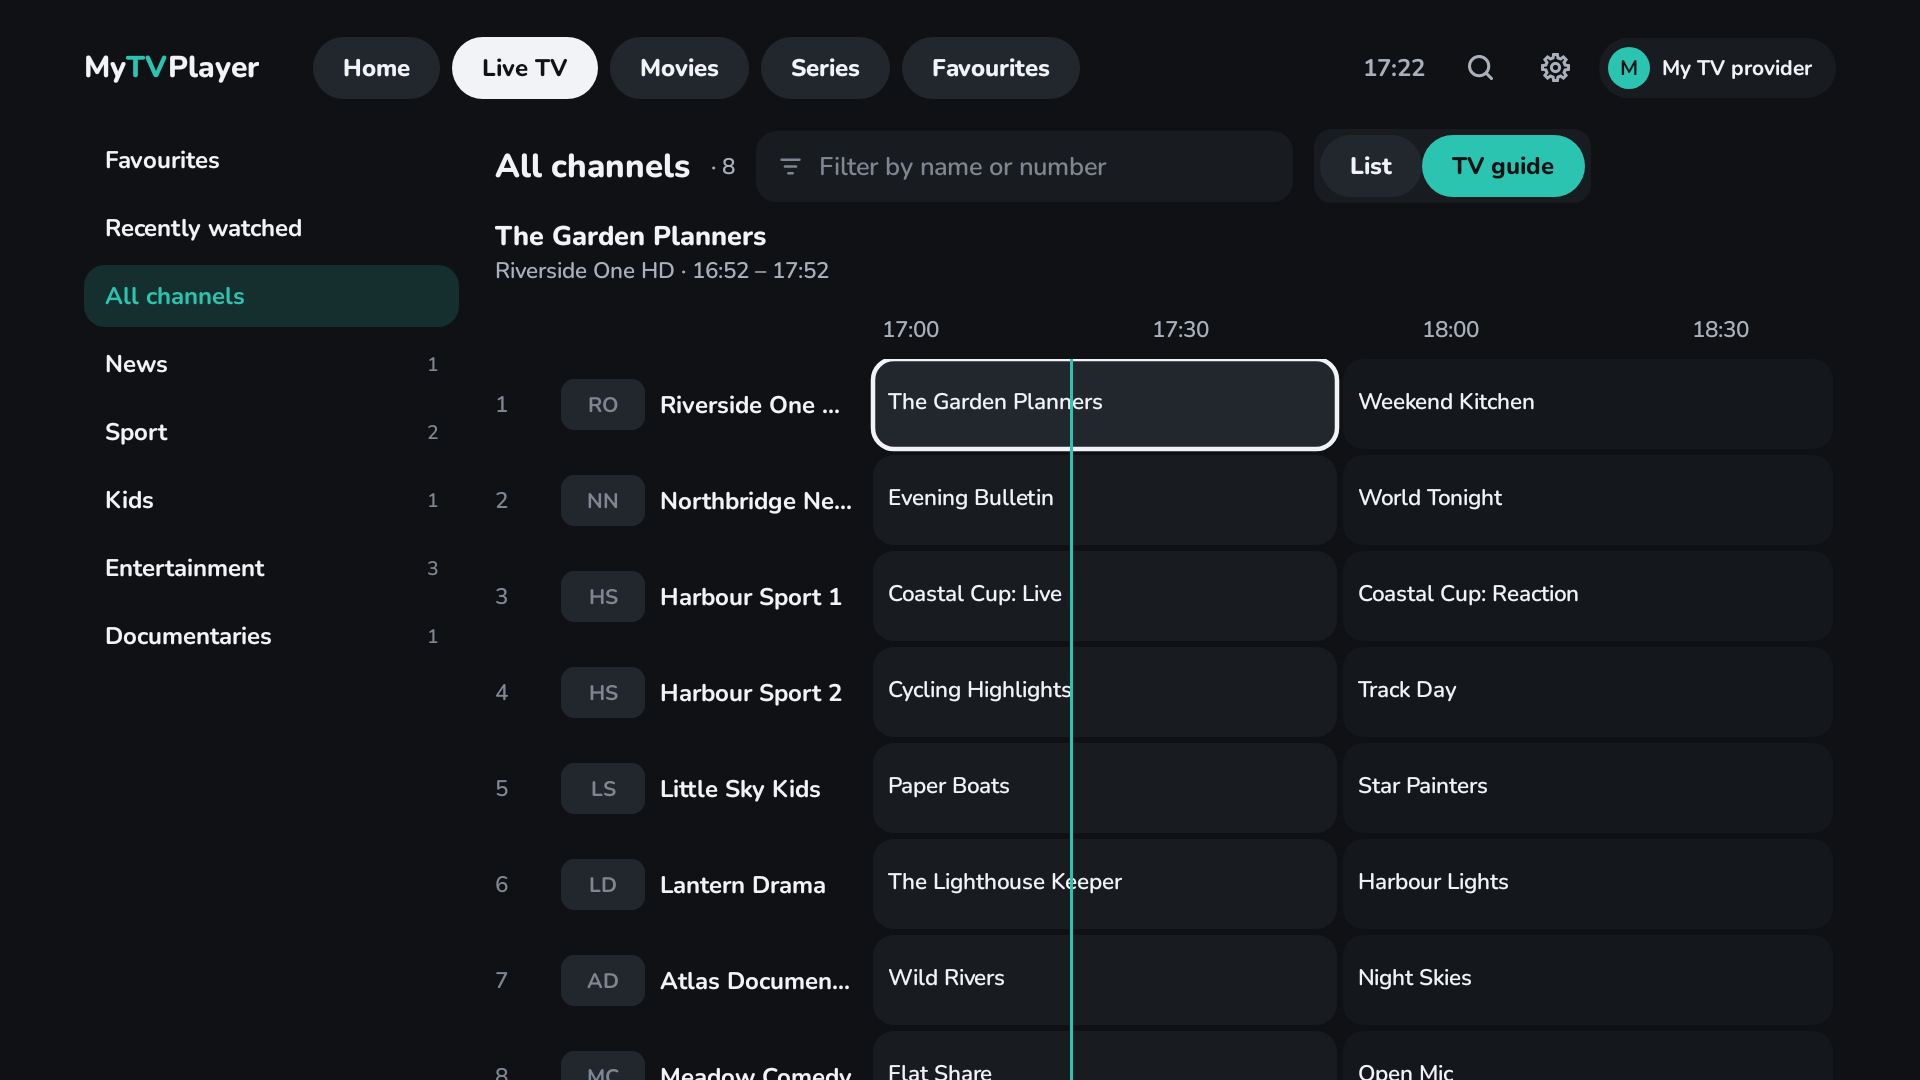
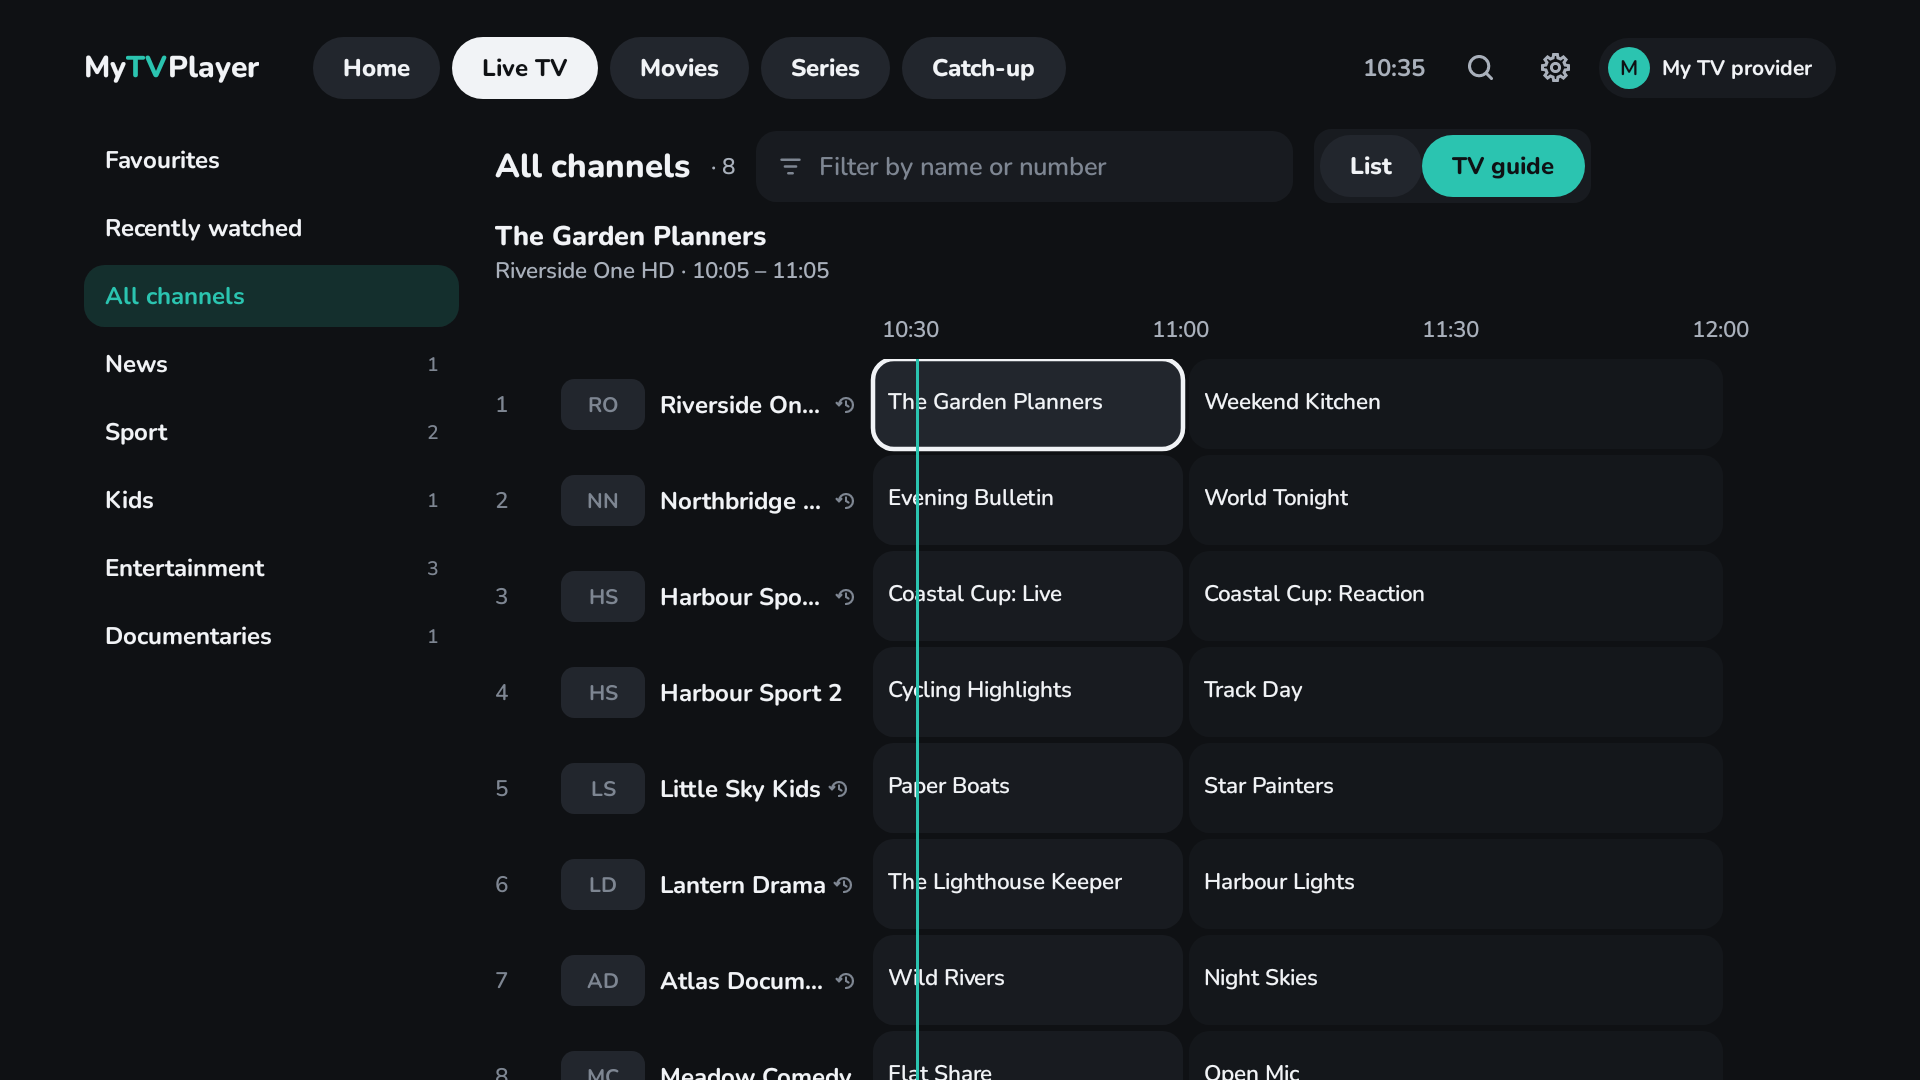
Store assets for the Amazon Appstore (Fire TV)
- Fire TV background (1920x1080, no text) and Amazon's small and large icons, drawn by StoreAssetsTest
- Catch-up tab screenshot in place of the Favourites one (that tab is gone); more demo channels with catch-up
- store/README: which file goes in which Amazon console field

Claude-Session: https://claude.ai/code/session_01XanGeKN99Wd1hmQc73eoBg

diff --git a/app/src/test/java/com/biskyt/mytvplayer/ui/StoreAssetsTest.kt b/app/src/test/java/com/biskyt/mytvplayer/ui/StoreAssetsTest.kt
@@ -6,9 +6,11 @@ import androidx.compose.foundation.layout.Box
 import androidx.compose.foundation.layout.Column
 import androidx.compose.foundation.layout.Row
 import androidx.compose.foundation.layout.fillMaxSize
+import androidx.compose.foundation.layout.height
 import androidx.compose.foundation.layout.padding
 import androidx.compose.foundation.layout.requiredSize
 import androidx.compose.foundation.layout.size
+import androidx.compose.foundation.layout.width
 import androidx.compose.foundation.shape.RoundedCornerShape
 import androidx.compose.runtime.Composable
 import androidx.compose.runtime.CompositionLocalProvider
@@ -16,6 +18,9 @@ import androidx.compose.runtime.remember
 import androidx.compose.ui.Alignment
 import androidx.compose.ui.Modifier
 import androidx.compose.ui.draw.clip
+import androidx.compose.ui.draw.drawBehind
+import androidx.compose.ui.geometry.Offset
+import androidx.compose.ui.graphics.Brush
 import androidx.compose.ui.graphics.Color
 import androidx.compose.ui.platform.LocalDensity
 import androidx.compose.ui.platform.testTag
@@ -55,7 +60,7 @@ import org.robolectric.annotation.Config
 import org.robolectric.annotation.GraphicsMode
 
 /**
- * The Google Play listing's graphics and screenshots, drawn from the app itself so they always match it. Only run when
+ * The Google Play and Amazon Appstore listings' graphics and screenshots, drawn from the app itself so they always match it. Only run when
  * asked: `./gradlew :app:recordRoborazziDebug --tests '*StoreAssetsTest*' -PstoreAssets`. Files go to store/ at the
  * repository root. Demo channels and programmes are invented: no real broadcaster or title appears.
  *
@@ -72,12 +77,12 @@ class StoreAssetsTest {
         categories = listOf("1" to "News", "2" to "Sport", "3" to "Kids", "4" to "Entertainment", "5" to "Documentaries")
         streams = listOf(
             FakeProvider.Stream(101, 1, "Riverside One HD", "4", "one", archiveDays = 7),
-            FakeProvider.Stream(102, 2, "Northbridge News", "1", "news"),
+            FakeProvider.Stream(102, 2, "Northbridge News", "1", "news", archiveDays = 3),
             FakeProvider.Stream(103, 3, "Harbour Sport 1", "2", "sport1", archiveDays = 3),
             FakeProvider.Stream(104, 4, "Harbour Sport 2", "2", "sport2"),
-            FakeProvider.Stream(105, 5, "Little Sky Kids", "3", "kids"),
-            FakeProvider.Stream(106, 6, "Lantern Drama", "4", "drama"),
-            FakeProvider.Stream(107, 7, "Atlas Documentary", "5", "docs"),
+            FakeProvider.Stream(105, 5, "Little Sky Kids", "3", "kids", archiveDays = 2),
+            FakeProvider.Stream(106, 6, "Lantern Drama", "4", "drama", archiveDays = 7),
+            FakeProvider.Stream(107, 7, "Atlas Documentary", "5", "docs", archiveDays = 7),
             FakeProvider.Stream(108, 8, "Meadow Comedy", "4", "comedy"),
         )
         guideChannels = listOf(
@@ -148,7 +153,7 @@ class StoreAssetsTest {
         val navigator = Navigator(start)
         compose.setContent { MyTvTheme { NavHost(remember { navigator }) { Screens(it) } } }
         runCatching { waitFor(ready) }.onFailure {
-            compose.onRoot().captureRoboImage("/tmp/claude-0/-home-user/0abf9b51-1657-5eae-875f-1c39214c859f/scratchpad/stuck-$name.png")
+            compose.onRoot().captureRoboImage("build/store-assets/stuck-$name.png")
             throw AssertionError("'$ready' not shown on $name", it)
         }
         compose.waitForIdle()
@@ -171,7 +176,8 @@ class StoreAssetsTest {
 
     @Test fun tvGuide() = screenshot("3-tv-guide", Screen.Live(ChannelFilter.All, guide = true), "World Tonight")
 
-    @Test fun favourites() = screenshot("4-favourites", Screen.Live(ChannelFilter.Favourites), "Paper Boats")
+    // Its last row, so the list has all its channels.
+    @Test fun catchup() = screenshot("4-catch-up", Screen.Live(ChannelFilter.Catchup), "Wild Rivers")
 
     @Test fun icon() = graphic("icon-512", 256.dp, 256.dp) { Icon() }
 
@@ -179,7 +185,14 @@ class StoreAssetsTest {
 
     @Test fun tvBanner() = graphic("tv-banner-1280x720", 640.dp, 360.dp) { Banner() }
 
-    /** [width] × [height] in dp, each exactly 2 px: half the pixel size Play asks for. */
+    // Amazon's small and large icons, if the console asks for them (it wants no transparency).
+    @Test fun amazonIconSmall() = graphic("amazon-icon-114", 57.dp, 57.dp) { Icon() }
+
+    @Test fun amazonIconLarge() = graphic("amazon-icon-512", 256.dp, 256.dp) { Icon() }
+
+    @Test fun fireTvBackground() = graphic("fire-tv-background-1920x1080", 960.dp, 540.dp) { Background() }
+
+    /** [width] × [height] in dp, each exactly 2 px: half the pixel size the store asks for. */
     private fun graphic(name: String, width: Dp, height: Dp, content: @Composable () -> Unit) {
         compose.setContent {
             // The app scales itself to the TV; here every dp is exactly 2 px.
@@ -190,7 +203,7 @@ class StoreAssetsTest {
             }
         }
         compose.onNodeWithTag(name).captureRoboImage("$OUT/graphics/$name.png")
-        // The icon may be transparent; Play wants the others without (24-bit).
+        // Play's icon may be transparent; everything else (Amazon's icons too) is without (24-bit).
         if (name != "icon-512") flatten("$OUT/graphics/$name.png")
     }
 
@@ -239,6 +252,43 @@ class StoreAssetsTest {
         }
     }
 
+    /**
+     * Amazon's Fire TV background: shown behind the app's details, which sit on the left, so it has no text. A soft glow
+     * of the accent colour over the app's dark ground, with a few rows of a TV guide on the right (the one on now lit).
+     */
+    @Composable
+    private fun Background() {
+        val glow = Accent.copy(alpha = 0.28f)
+        Box(
+            Modifier.fillMaxSize().background(Palette.background).drawBehind {
+                val center = Offset(size.width * 0.78f, size.height * 0.28f)
+                drawRect(Brush.radialGradient(listOf(glow, Color.Transparent), center, size.width * 0.68f))
+            }
+        ) {
+            Column(
+                Modifier.align(Alignment.CenterEnd).padding(end = 48.dp).width(430.dp),
+                verticalArrangement = Arrangement.spacedBy(12.dp)
+            ) {
+                GuideRows.forEachIndexed { row, cells -> GuideRow(cells, onNow = row == LIT_ROW) }
+            }
+        }
+    }
+
+    /** One row of programme blocks; [cells] are their widths in tenths of the row, and the first is on now. */
+    @Composable
+    private fun GuideRow(cells: List<Int>, onNow: Boolean) {
+        Row(horizontalArrangement = Arrangement.spacedBy(8.dp)) {
+            cells.forEachIndexed { i, width ->
+                val colour = when {
+                    i == 0 && onNow -> Accent.copy(alpha = 0.55f)
+                    i == 0 -> Palette.surface.copy(alpha = 0.9f)
+                    else -> Palette.surface.copy(alpha = 0.6f)
+                }
+                Box(Modifier.weight(width.toFloat()).height(46.dp).clip(RoundedCornerShape(12.dp)).background(colour))
+            }
+        }
+    }
+
     /** "MyTVPlayer" with "TV" in the accent colour, as in the app's top bar. */
     @Composable
     private fun Wordmark(size: Int) {
@@ -252,6 +302,10 @@ class StoreAssetsTest {
 
     private companion object {
         const val OUT = "../store"
+
+        /** The Fire TV background's guide: programme widths per row, in tenths. */
+        val GuideRows = listOf(listOf(4, 6), listOf(7, 3), listOf(3, 3, 4), listOf(5, 5), listOf(6, 4), listOf(2, 5, 3))
+        const val LIT_ROW = 2
         val Accent = Color(AccentPalette.DEFAULT)
     }
 }

diff --git a/store/README.md b/store/README.md
@@ -1,6 +1,7 @@
-# Google Play listing
+# Store listings
 
-Everything for the MyTVPlayer store listing: graphics, screenshots and the text to paste in.
+Everything for MyTVPlayer's Google Play and Amazon Appstore (Fire TV) listings: graphics, screenshots and the text to
+paste in.
 
 ## Graphics
 
@@ -10,6 +11,17 @@ Everything for the MyTVPlayer store listing: graphics, screenshots and the text 
 | `graphics/feature-graphic-1024x500.png` | Feature graphic | 1024 × 500, 24-bit PNG |
 | `graphics/tv-banner-1280x720.png` | Android TV banner | 1280 × 720, 24-bit PNG |
 | `screenshots/*.png` | Android TV screenshots (and phone screenshots, if asked) | 1920 × 1080, 24-bit PNG |
+
+For the **Amazon Appstore** (Fire TV):
+
+| File | Amazon Developer Console field | Size |
+|---|---|---|
+| `graphics/tv-banner-1280x720.png` | Fire TV app icon | 1280 × 720 |
+| `graphics/fire-tv-background-1920x1080.png` | Background image (shown behind the app's details, so no text) | 1920 × 1080 |
+| `screenshots/*.png` | Fire TV screenshots (3 to 10), and phone/tablet ones if asked | 1920 × 1080 |
+| `graphics/amazon-icon-114.png`, `graphics/amazon-icon-512.png` | Small and large icons, if the console asks for them | 114 × 114, 512 × 512 |
+
+Every file is a 24-bit PNG (no transparency) except Play's `icon-512.png`, which is 32-bit as Play asks.
 
 They're drawn by the app itself (`app/src/test/.../ui/StoreAssetsTest.kt`), with invented channels and programmes, so
 they never show a real broadcaster or title. To make them again after the app's look changes:
@@ -32,7 +44,7 @@ they never show a real broadcaster or title. To make them again after the app's 
 
 **Full description** (4000 max):
 
-> MyTVPlayer is a fast, simple player for Android TV that brings your own IPTV service to the big screen.
+> MyTVPlayer is a fast, simple player for Android TV and Fire TV that brings your own IPTV service to the big screen.
 >
 > MyTVPlayer does not include any channels or content. Add the IPTV service you subscribe to (Xtream Codes login or
 > M3U playlist), or start with the free, public channels collected by the iptv-org project.
